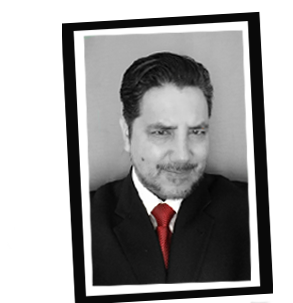
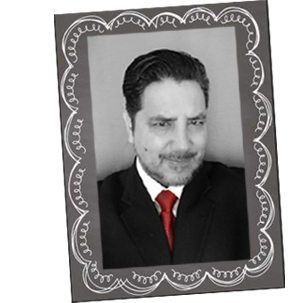
New background

diff --git a/index.html b/index.html
@@ -10,21 +10,23 @@
 
      <style type="text/css">
         * { margin: 0; padding: 0; }
-        body { font: 16px Helvetica, Sans-Serif; line-height: 24px; background: url(./images/noise.jpg); }
+        body { font: 16px Helvetica, Sans-Serif; line-height: 24px; background: url(./images/noise3.jpg); background-repeat: no-repeat; }
         .clear { clear: both; }
         #page-wrap { width: 800px; margin: 40px auto 60px; }
         #pic { float: left; margin: -20px 0 0 0; }
-        h1 { margin: 0 0 16px 0; padding: 0 0 16px 0; font-size: 42px; font-weight: bold; letter-spacing: -2px; border-bottom: 1px solid #999; }
+        h1 { margin: 0 0 16px 0; padding: 0 0 16px 0; color: #999; font-size: 42px; font-weight: bold; letter-spacing: -2px; border-bottom: 1px solid #7fff00; }
         h2 { font-size: 20px; margin: 0 0 6px 0; position: relative; }
         h2 span { position: absolute; bottom: 0; right: 0; font-style: italic; font-family: Georgia, Serif; font-size: 16px; color: #999; font-weight: normal; }
-        p { margin: 0 0 16px 0; }
+        p { margin: 0 0 16px 0;color: #666}
         a { color: #999; text-decoration: none; border-bottom: 1px dotted #999; }
         a:hover { border-bottom-style: solid; color: black; }
         ul { margin: 0 0 32px 17px; }
         #objective { width: 500px; float: left; }
         #objective p { font-family: Georgia, Serif; font-style: italic; color: #666; }
-        dt { font-style: italic; font-weight: bold; font-size: 18px; text-align: right; padding: 0 26px 0 0; width: 150px; float: left; height: 100px; border-right: 1px solid #999;  }
-        dd { width: 600px; float: right; }
+        dt {font-weight: bold; font-family: Verdana; font-size: 20px; color: #999; text-align: right; padding: 0 26px 0 0; width: 150px; float: left; height: 200px; border-right: 1px solid #7fff00;  }
+        dt1 {font-family: Verdana; font-weight: bold; font-size: 20px; color: #999; text-align: right; padding: 0 26px 0 0; width: 150px; float: left; height: 50px; border-right: 1px solid #7fff00;  }
+        dt2 {  font-family: Verdana; font-weight: bold; font-size: 20px; color: #999; text-align: right; padding: 0 26px 0 0; width: 150px; float: left; height: 500px; border-right: 1px solid #7fff00;  }
+        dt3 {  font-family: Verdana; font-weight: bold; font-size: 20px; color: #999; text-align: right; padding: 0 26px 0 0; width: 150px; float: left; height: 100px; border-right: 1px solid #7fff00;  }         dd { width: 600px; float: right;color: #666}
         dd.clear { float: none; margin: 0; height: 15px; }
      </style>
 </head>
@@ -39,7 +41,7 @@
         
             <!-- Microformats! -->
         
-            <h1 class="fn">Francisco Ron</h1>
+            <h1 class="fn"> Francisco Ron</h1>
         
             <p>
                 Loc.: <span class="loc">Ontario, CA</span><br />
@@ -78,7 +80,7 @@
                 <h2>Riverside Community College</h2>
                 <p><strong>Major:</strong> Associate in Science Information Systems and Programming<br />
                    
-            </dd>
+            </dd> 
             
             <dd class="clear"></dd>
             
@@ -97,7 +99,7 @@
             
             <dd class="clear"></dd>
             
-            <dt>Publications</dt>
+            <dt1>Publications</dt1>
             <dd>
                             
                 <h2>California State University Scholar Works</h2>
@@ -108,8 +110,7 @@
             
             <dd class="clear"></dd>
             
-            
-            <dt>Work History</dt>
+            <dt2>Work History</dt2>
             <dd>
                 <h2>Self Employed <span>Ontario, CA - 2016-Up to Date</span></h2>
                 <ul>
@@ -148,11 +149,9 @@
             
             <dd class="clear"></dd>
             
-            <dt>Software Qualifications</dt>
+            <dt3>Software Qualifications</dt3>
             <dd>RPG/400, ILE RPG, Oracle/400, CL/400, Query/400, AS/400 Applications Development,
-            AS/400 System Administration, AS/400 System Security, AS/400 Tuning, Java, PHP, Java Script,
-            HTML, CSS, Java for Android, SQL Lite, MySQL, Mango DB, C++, Github, Windows, Linux, 
-            Photoshop, Adobe Illustrator, Flash</dd>
+            AS/400 System Administration, AS/400 System Security, AS/400 Tuning, Java, PHP, Java Script, HTML, CSS, Java for Android, SQL Lite, MySQL, Mango DB, C++, Github, Windows, Linux, Photoshop, Adobe Illustrator, Flash</dd>
             
             <dd class="clear"></dd>
             
